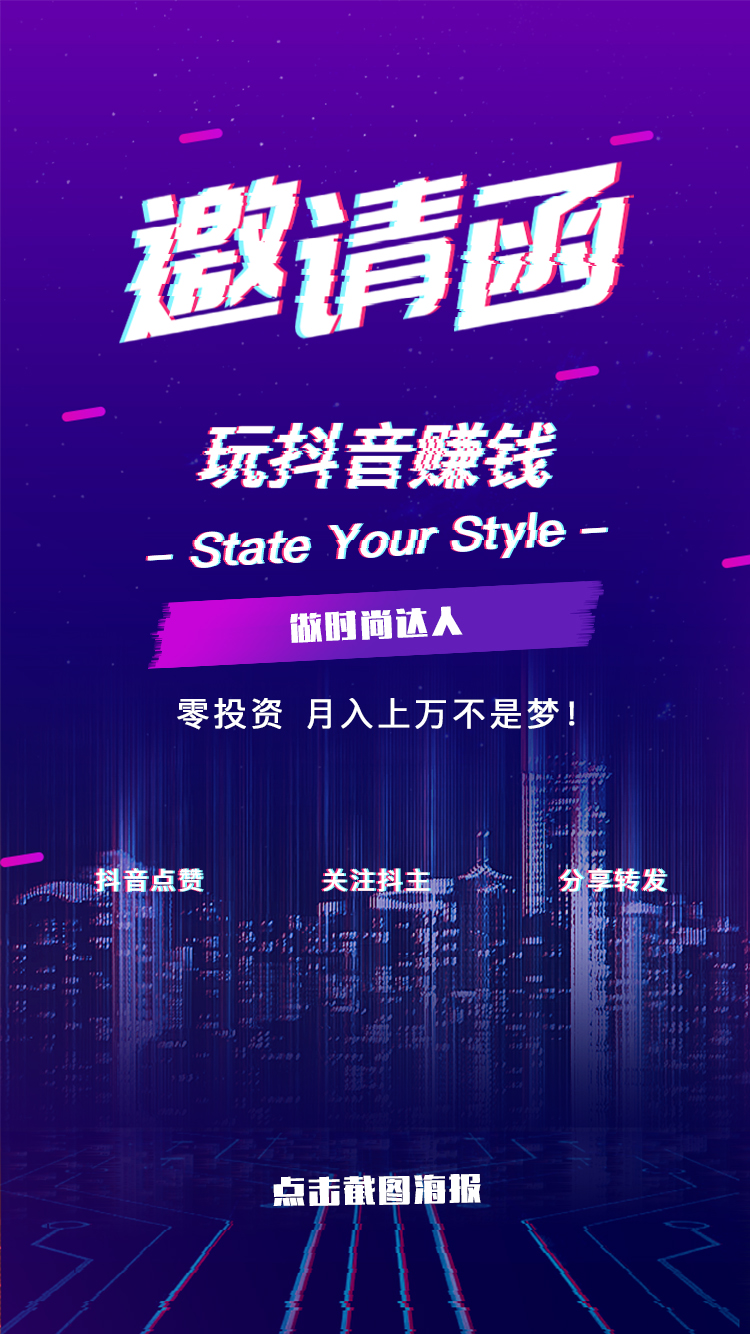
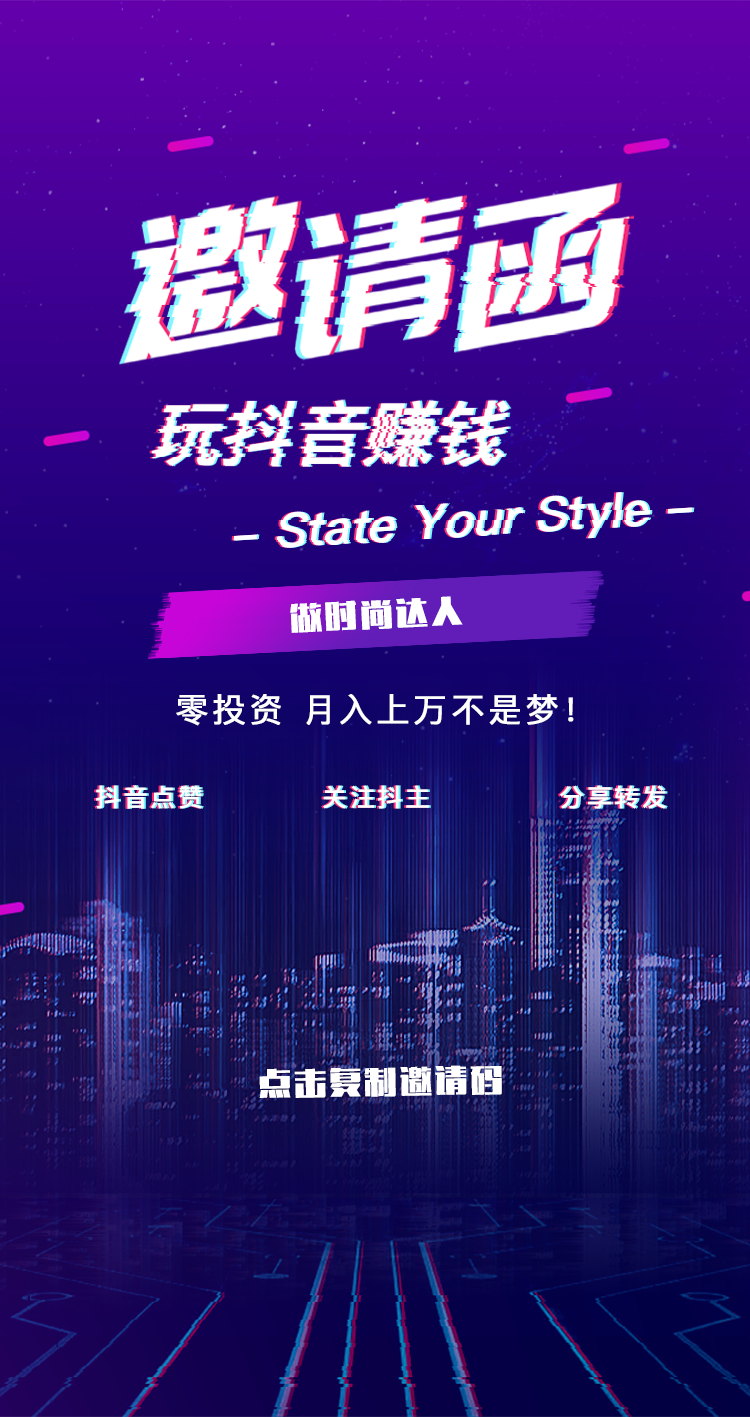
0904-a

diff --git a/pages/profile/invitation.vue b/pages/profile/invitation.vue
@@ -27,6 +27,7 @@
 		<!-- <image src="/static/images/profile/pic_erweima.png" mode="" ></image> -->
 		<view class="click" @click="capture"></view>
 		<view class="code_text">注册邀请码: {{info.id}}</view>
+		<view class="load-btn" @click="loadBtn">复制下载链接</view>
 	</view>
 </template>
 
@@ -37,7 +38,7 @@ export default {
 	data() {
 		return {
 			val: '', // 要生成的二维码值
-			size: 200, // 二维码大小
+			size: 160, // 二维码大小
 			unit: 'upx', // 单位
 			background: '#fff', // 背景色
 			pdground: '#000', // 角标色
@@ -46,7 +47,8 @@ export default {
 			lv: 3, // 二维码容错级别 ， 一般不用设置，默认就行
 			onval: false, // val值变化时自动重新生成二维码
 			loadMake: true, // 组件加载完成后自动生成二维码
-			src: '' // 二维码生成后的图片地址或base64
+			src: '' ,// 二维码生成后的图片地址或base64
+			promotionCopyData:''
 		};
 	},
 	methods: {
@@ -103,10 +105,20 @@ export default {
 				}
 			);
 			//currentWebview.append(amway_bit);
+		},
+		loadBtn() {
+			uni.setClipboardData({
+			    data: this.promotionCopyData
+			});
 		}
 	},
 	computed:{
 		...mapState(['info'])
+	},
+	async onShow() {
+		let res = await this.$http.promotionCopy()
+		console.log(res);
+		this.promotionCopyData = res.result.content
 	},
 	onLoad(options) {
 		this.val = config.apiBaseUrl + 'view/register?invitation_code=' + options.id;
@@ -151,12 +163,26 @@ export default {
 	}
 	.code_img {
 		position: absolute;
-		bottom: 200rpx;
+		bottom: 420rpx;
 		left: 0;
 		right: 0;
 		margin: auto;
-		width: 200rpx;
-		height: 200rpx;
+		width: 160rpx;
+		height: 160rpx;
+	}
+	.load-btn {
+		position: absolute;
+		bottom: 100rpx;
+		left: 0;
+		right: 0;
+		margin: auto;
+		width: 380rpx;
+		height: 90rpx;
+		line-height: 90rpx;
+		text-align: center;
+		background-color: #FFFFFF;
+		border-radius: 45rpx;
+		color: #180867;
 	}
 	.click{
 		position: absolute;
@@ -169,7 +195,7 @@ export default {
 	}
 	.code_text {
 		position: absolute;
-		bottom: 70rpx;
+		bottom: 240rpx;
 		left: 0;
 		right: 0;
 		margin: auto;

diff --git a/service/methods.js b/service/methods.js
@@ -374,6 +374,15 @@ const customerUrl = (data) => {
 		data
 	})
 }
+// 客服
+const promotionCopy = (data) => {
+	return http.request({
+		url: 'team/promotion_copy',
+		dataType: 'json',
+		method: 'GET',
+		data
+	})
+}
 export default {
 	uploadFile,
 	phoneLogin,
@@ -416,5 +425,6 @@ export default {
 	taskCancel,
 	taskSubmit,
 	bankList,
-	customerUrl
+	customerUrl,
+	promotionCopy
 }
